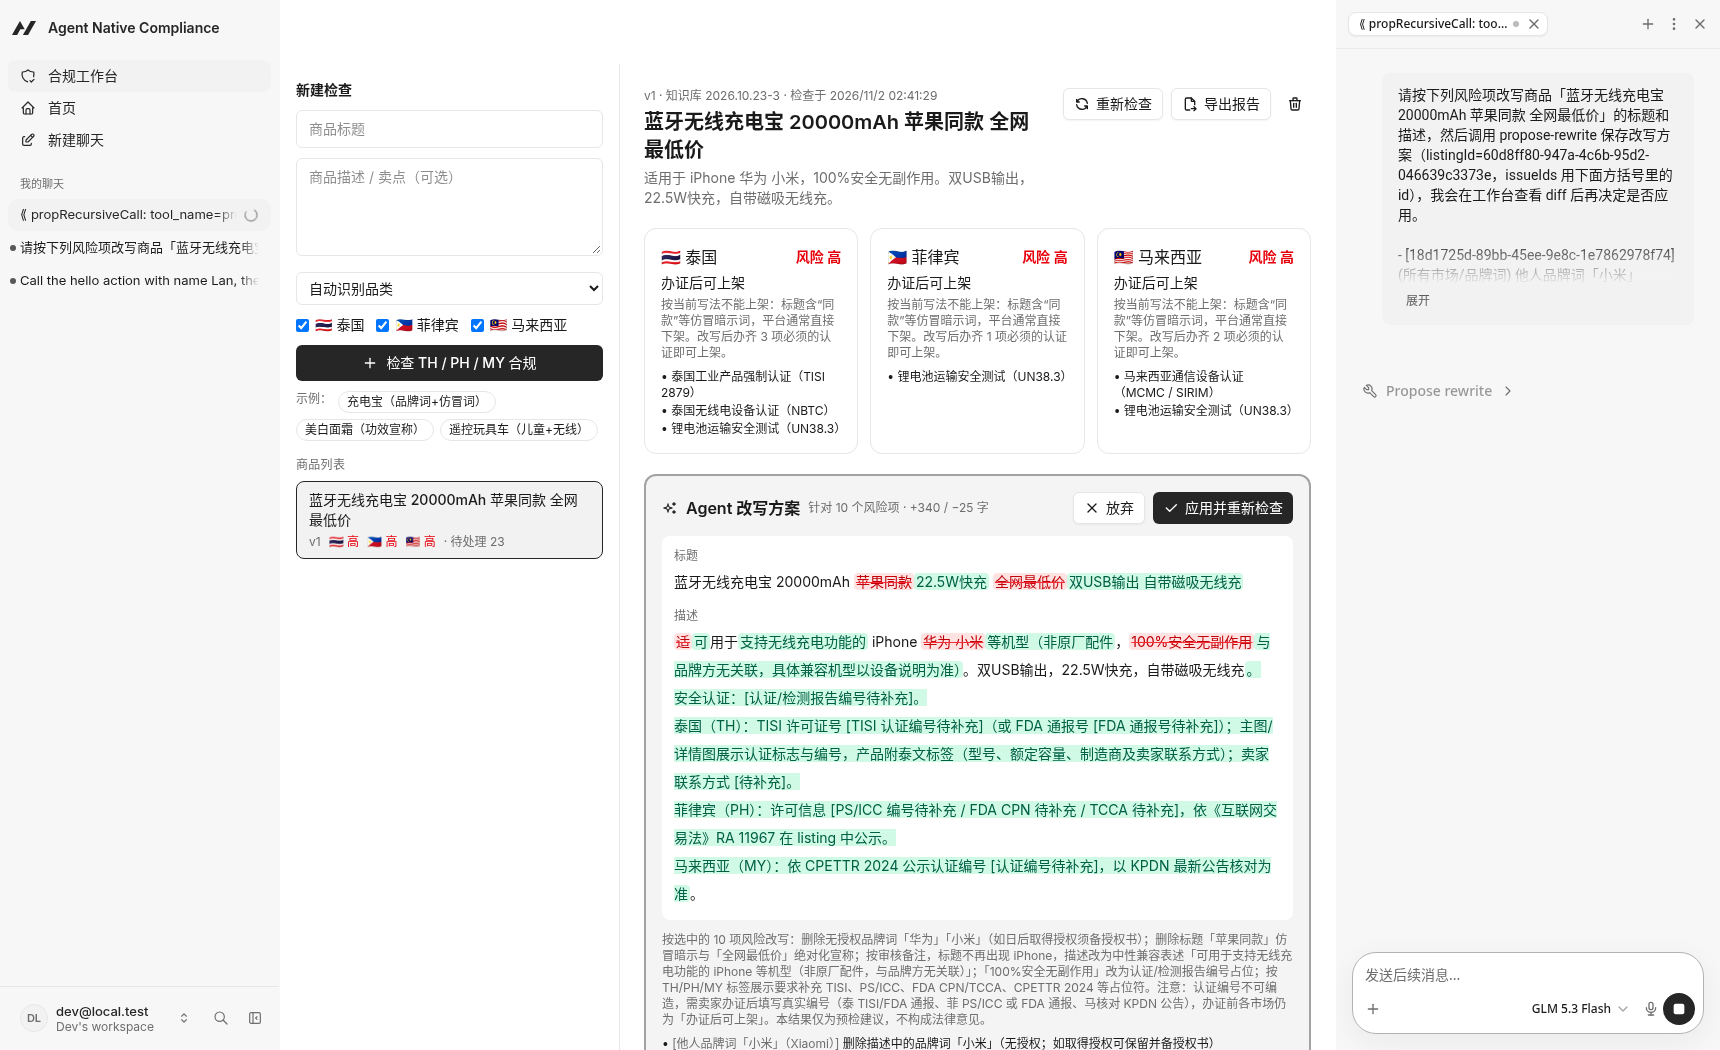
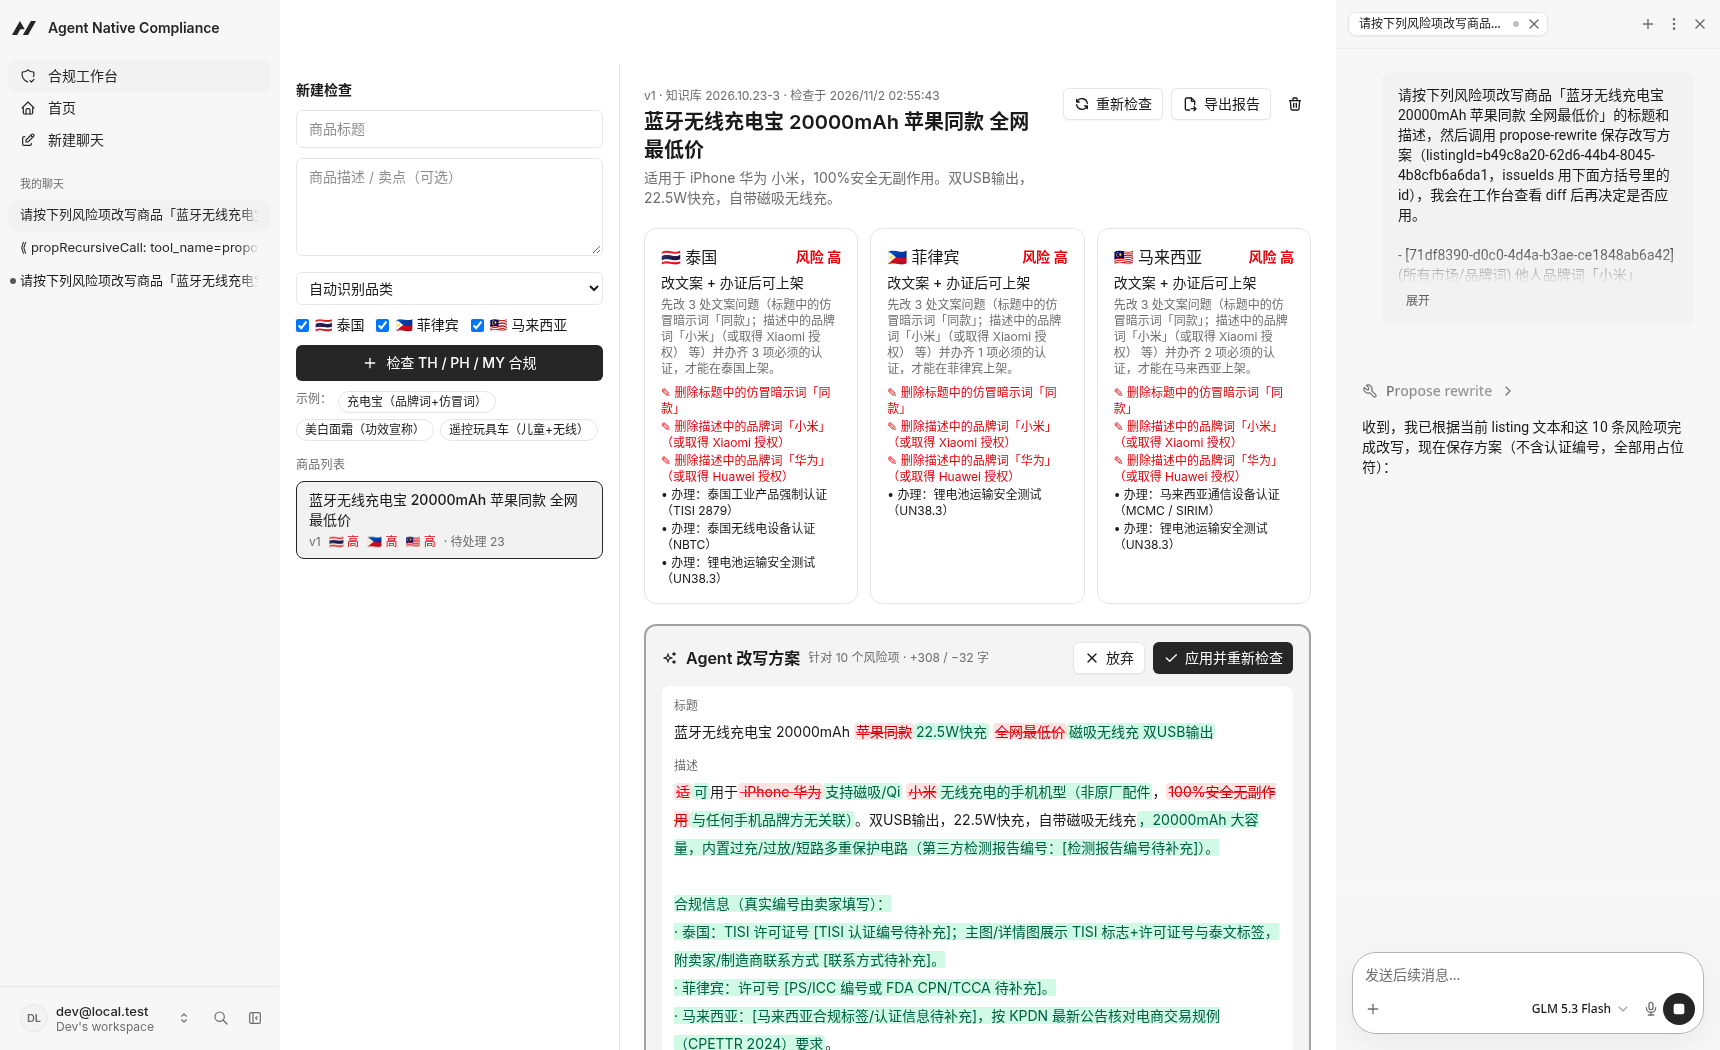
feat(ui): label fast-lane proposals in the diff panel

diff --git a/app/components/compliance/Workbench.tsx b/app/components/compliance/Workbench.tsx
@@ -336,7 +336,7 @@ function RewritePanel({ rw, issues, busy, onDecide }: { rw: RewriteView; issues:
     <div className="rounded-xl border-2 border-primary/40 bg-primary/5 p-4" data-testid="rewrite-panel">
       <div className="flex items-center gap-2">
         <IconSparkles className="size-4 text-primary" />
-        <div className="font-semibold">Agent 改写方案</div>
+        <div className="font-semibold">{rw.rationale?.includes("快通道") ? "⚡ 快通道改写方案" : "Agent 改写方案"}</div>
         <span className="text-xs text-muted-foreground">针对 {rw.issueIds.length} 个风险项 · +{rw.stats.added} / −{rw.stats.removed} 字</span>
         <div className="ml-auto flex gap-2">
           <Button size="sm" variant="outline" onClick={() => onDecide("discard")} disabled={busy}><IconX className="size-4" />放弃</Button>

diff --git a/screenshots/09-exported-report.md b/screenshots/09-exported-report.md
@@ -1,39 +1,44 @@
-# 出海合规审查：蓝牙无线充电宝 20000mAh 22.5W快充 双USB输出 自带磁吸无线充
+# 出海合规审查：蓝牙无线充电宝 20000mAh 22.5W快充 磁吸无线充 双USB输出
 
-版本 v2 · 知识库 2026.10.23-3 · 检查时间 2026-11-02T02:43:36.172Z
+版本 v2 · 知识库 2026.10.23-3 · 检查时间 2026-11-02T02:57:48.402Z
 
 ## 各市场结论
 
-- **泰国**：办证后可上架（风险 高）— 需先办好 3 项证书，才能在泰国合法上架。标题中的品牌词“iphone”需删除或取得授权。
-- **菲律宾**：办证后可上架（风险 高）— 需先办好 1 项证书，才能在菲律宾合法上架。标题中的品牌词“iphone”需删除或取得授权。
-- **马来西亚**：办证后可上架（风险 高）— 需先办好 2 项证书，才能在马来西亚合法上架。标题中的品牌词“iphone”需删除或取得授权。
+- **泰国**：办证后可上架（风险 高）— 办齐 3 项必须的认证，才能在泰国上架。
+  - [ ] 办理：泰国工业产品强制认证（TISI 2879）
+  - [ ] 办理：泰国无线电设备认证（NBTC）
+  - [ ] 办理：锂电池运输安全测试（UN38.3）
+- **菲律宾**：办证后可上架（风险 中）— 办齐 1 项必须的认证，才能在菲律宾上架。
+  - [ ] 办理：锂电池运输安全测试（UN38.3）
+- **马来西亚**：办证后可上架（风险 高）— 办齐 2 项必须的认证，才能在马来西亚上架。
+  - [ ] 办理：马来西亚通信设备认证（MCMC / SIRIM）
+  - [ ] 办理：锂电池运输安全测试（UN38.3）
 
 ## 风险项
 
 | 市场 | 等级 | 状态 | 风险项 | 建议 | 依据 |
 |---|---|---|---|---|---|
 | 所有市场 | 高 | 已解决 | 他人品牌词「小米」（Xiaomi）<br>备注：v2 复检后不再命中 | 删除品牌词「小米」，或在取得授权后保留并备好授权书。 | 品牌/仿冒词检测 |
-| 所有市场 | 高 | 待处理 | 他人品牌词「iphone」（Apple） | 删除品牌词「iphone」，或在取得授权后保留并备好授权书。 | 品牌/仿冒词检测 |
-| 所有市场 | 高 | 已解决 | 他人品牌词「华为」（Huawei）<br>备注：v2 复检后不再命中 | 删除品牌词「华为」，或在取得授权后保留并备好授权书。 | 品牌/仿冒词检测 |
 | 泰国 | 高 | 待处理 | 泰国 TISI：移动电源（มอก. 2879-2560） | 核对新版 TIS 2879-2567 的生效/过渡日期；锂电池运输另需符合物流危险品要求 | [ASEAN ACCSQ – Thailand Updated Regulatory Regime (Revised matrix on mandatory standards, as of April 2025)](https://asean.org/wp-content/uploads/2026/03/TH_Updated-Regulatory-Regime_September-2025.pdf) |
-| 所有市场 | 高 | 已解决 | 仿冒暗示词「同款」<br>备注：v2 复检后不再命中 | 删除「同款」，改为描述商品本身的材质/功能。 | 品牌/仿冒词检测 |
+| 所有市场 | 高 | 已解决 | 他人品牌词「华为」（Huawei）<br>备注：v2 复检后不再命中 | 删除品牌词「华为」，或在取得授权后保留并备好授权书。 | 品牌/仿冒词检测 |
 | 泰国 | 高 | 待处理 | 泰国 NBTC 无线电设备合规（蓝牙 / 无线充电） | 在 NBTC 设备查询 https://anyregis.nbtc.go.th/rces/ 核对型号；此条来自第三方（CSA Group）解读，请以 NBTC 原文为准 | [CSA Group – Thailand (NBTC) regulations for selling radio communication equipment](https://www.csagroup.org/global-certification-regulatory-update/thailand-nbtc-regulations-for-selling-radio-communication-equipment-as-per-act-b-e-2498/) |
+| 所有市场 | 高 | 已解决 | 仿冒暗示词「同款」<br>备注：v2 复检后不再命中 | 删除「同款」，改为描述商品本身的材质/功能。 | 品牌/仿冒词检测 |
 | 所有市场 | 高 | 待处理 | 内置/配套锂电池：UN38.3 测试与测试摘要（运输必备） | 向电芯/电池供应商索取对应型号的 UN38.3 测试报告与测试摘要；在标签/规格中标明电池容量（Wh = V × Ah） | [IATA – Battery Guidance Document: Transport of Lithium Metal, Lithium Ion and Sodium Ion Batteries (Revised for the 2026 Regulations)](https://www.iata.org/contentassets/05e6d8742b0047259bf3a700bc9d42b9/lithium-battery-guidance-document.pdf) |
 | 马来西亚 | 高 | 待处理 | 马来西亚 MCMC 通信设备认证（SIRIM）与 MCMC 标签（蓝牙 / 无线充电） | 通过 SIRIM QAS 办理认证；listing 填写 MCMC 注册号 / SIRIM CoC 号 | [MCMC – Guidelines for Online Shopping Platform, Merchant and Consumer in E-Commerce for Communications Equipment](https://www.mcmc.gov.my/skmmgovmy/media/General/pdf2/Guidelines-for-Online-Shopping-Platform-Merchant-and-Consumer-in-Electronic-Commerce-for-Communications-Equipment.pdf) |
 | 泰国 | 中 | 待处理 | 泰国 ETDA 电商平台新规：listing 须展示 TISI/FDA 合规证明 | 在 listing 描述中补充该要求对应的信息（如认证编号、当地语言标签说明），真实编号由卖家填写。参考：在主图/详情图中展示 TISI 标志+许可证号（或 FDA 通报号）与泰文标签；在描述中填写许可证号与卖家/制造商联系方式 | [ETDA ข่าวประชาสัมพันธ์ – ประกาศ กพธ. มาตรา 18 (2) ตลาดสินค้าออนไลน์](https://www.etda.or.th/th/pr-news/announce_dpslaw18.aspx) |
 | 菲律宾 | 中 | 待处理 | 菲律宾《互联网交易法》RA 11967：管制商品须提供许可信息 | 在 listing 描述中补充该要求对应的信息（如认证编号、当地语言标签说明），真实编号由卖家填写。参考：在 listing 中填写 PS/ICC、FDA CPN/TCCA 等许可号 | [Republic Act No. 11967 – Internet Transactions Act of 2023](https://lawphil.net/statutes/repacts/ra2023/ra_11967_2023.html) |
-| 所有市场 | 中 | 已解决 | 兼容类措辞「iphone」<br>备注：确认无 Apple 授权，标题里必须去掉 iPhone，描述可保留合规的兼容说明 | 改为“可用于 XX 型号（非原厂配件，与品牌方无关联）”这类中性表述。 | 品牌/仿冒词检测 |
 | 马来西亚 | 中 | 待处理 | 马来西亚电商交易规例修订（CPETTR 2024） | 在 listing 描述中补充该要求对应的信息（如认证编号、当地语言标签说明），真实编号由卖家填写。参考：核对 KPDN 最新公告 | [Shopee MY Seller Education – CPETTR 2024 (页面需 JS，未能抓取全文)](https://seller.shopee.com.my/edu/article/25285) |
+| 所有市场 | 中 | 已解决 | 兼容类措辞「iphone」<br>备注：确认无 Apple 授权，标题里必须去掉 iPhone，描述可保留合规的兼容说明 | 改为“可用于 XX 型号（非原厂配件，与品牌方无关联）”这类中性表述。 | 品牌/仿冒词检测 |
 | 菲律宾 | 中 | 待处理 | 菲律宾 NTC 无线电设备型式认可（蓝牙 / 无线充电） | 该通告为 2003 年发布，请向 NTC 确认现行型式认可程序 | [NTC Memorandum Circular No. 09-09-2003 – Wireless Data Networks and Devices](https://region7.ntc.gov.ph/wp-content/uploads/2024/01/MC_09-09-2003.pdf) |
 | 所有市场 | 低 | 待处理 | TikTok Shop：禁止假冒及侵犯知识产权商品 | 如使用品牌词，准备品牌授权书；侵权投诉入口：https://ippc.tiktokglobalshop.com/ | [TikTok Shop by Tokopedia – Prohibited Products Guidelines（印尼站版本，泰/菲/马站需在各自 Seller University 核对）](https://seller-id.tokopedia.com/university/essay?knowledge_id=10000846&lang=en) |
 | 所有市场 | 低 | 待处理 | Shopee：禁止假冒/仿冒及侵权商品 | 在 Shopee 卖家中心核对对应站点的禁限售清单 | [Shopee PH Seller Education – Prohibited & restricted items（页面需 JS，未能抓取）](https://seller.shopee.ph/edu/article/698) |
 | 所有市场 | 低 | 待处理 | Lazada：禁止假冒/仿冒及侵权商品 | 在 Lazada 卖家中心核对对应站点的禁限售清单 | [Lazada – Prohibited and Controlled Products Policy（页面需 JS，未能抓取）](https://gsp.lazada.com/gsp/helpcenter/prohibited-and-controlled-products-policy-9600.html) |
-| 所有市场 | 低 | 已解决 | 绝对化价格宣称「全网最低」<br>备注：v2 复检后不再命中 | 改为可证实、可量化的客观描述（如具体参数、检测报告编号）。 | 通用文案风险 |
 | 所有市场 | 低 | 待处理 | 充电宝按“锂电池”本身运输（UN 3480），空运须 ≤30% 电量 | 发货前向物流商确认是否接收纯电池（UN 3480）货物及对应渠道；出货电量控制在 30% 以下 | [IATA – Battery Guidance Document: Transport of Lithium Metal, Lithium Ion and Sodium Ion Batteries (Revised for the 2026 Regulations)](https://www.iata.org/contentassets/05e6d8742b0047259bf3a700bc9d42b9/lithium-battery-guidance-document.pdf) |
-| 所有市场 | 低 | 已解决 | 无法证实的保证「100%安全」<br>备注：v2 复检后不再命中 | 改为可证实、可量化的客观描述（如具体参数、检测报告编号）。 | 通用文案风险 |
+| 所有市场 | 低 | 已解决 | 绝对化价格宣称「全网最低」<br>备注：v2 复检后不再命中 | 改为可证实、可量化的客观描述（如具体参数、检测报告编号）。 | 通用文案风险 |
 | 所有市场 | 低 | 待处理 | 带电商品：物流商/平台渠道限制与 MSDS | 准备电池规格书、UN38.3 测试摘要，物流商要求时提供 MSDS；在卖家中心确认该站点带电商品的发货渠道 | [IATA – Battery Guidance Document: Transport of Lithium Metal, Lithium Ion and Sodium Ion Batteries (Revised for the 2026 Regulations)](https://www.iata.org/contentassets/05e6d8742b0047259bf3a700bc9d42b9/lithium-battery-guidance-document.pdf) |
-| 所有市场 | 低 | 已解决 | 无法证实的安全/寿命宣称「无副作用」<br>备注：v2 复检后不再命中 | 改为可证实、可量化的客观描述（如具体参数、检测报告编号）。 | 通用文案风险 |
+| 所有市场 | 低 | 已解决 | 无法证实的保证「100%安全」<br>备注：v2 复检后不再命中 | 改为可证实、可量化的客观描述（如具体参数、检测报告编号）。 | 通用文案风险 |
 | 菲律宾 | 低 | 待处理 | 菲律宾：充电器/移动电源未在 BPS 强制清单中找到 | 向 BPS 确认最新清单；延长线/插头类配件仍在强制清单内 | [DTI-BPS – List of Products Under Mandatory Certification](https://bps.dti.gov.ph/component/content/category/10-list-of-products-under-mandatory-certification) |
+| 所有市场 | 低 | 已解决 | 无法证实的安全/寿命宣称「无副作用」<br>备注：v2 复检后不再命中 | 改为可证实、可量化的客观描述（如具体参数、检测报告编号）。 | 通用文案风险 |
 | 马来西亚 | 低 | 待处理 | 马来西亚：移动电源是否属 ST 管制需复核 | 向 ST 或 SIRIM QAS 确认移动电源归类 | [Suruhanjaya Tenaga – Regulated electrical equipment that requires CoA（扫描件 OCR）](https://www.st.gov.my/sites/default/files/2026-02/Regulated-Electrical-Equipments-that-requires-certificate-of-approval-%28COA%29.pdf) |
 | 马来西亚 | 低 | 待处理 | Shopee MY 禁限售清单（蓝牙 / 无线充电） | 在 Shopee MY 卖家中心核对 | [Shopee MY Seller Education – Prohibited & restricted items（页面需 JS，未能抓取）](https://seller.shopee.com.my/edu/article/614) |
 | 马来西亚 | 低 | 待处理 | 马来西亚低价值商品（LVG）销售税 10% | 定价时计入 LVG 税 | [Royal Malaysian Customs – LVG FAQ](https://mylvg.customs.gov.my/FAQ) |
